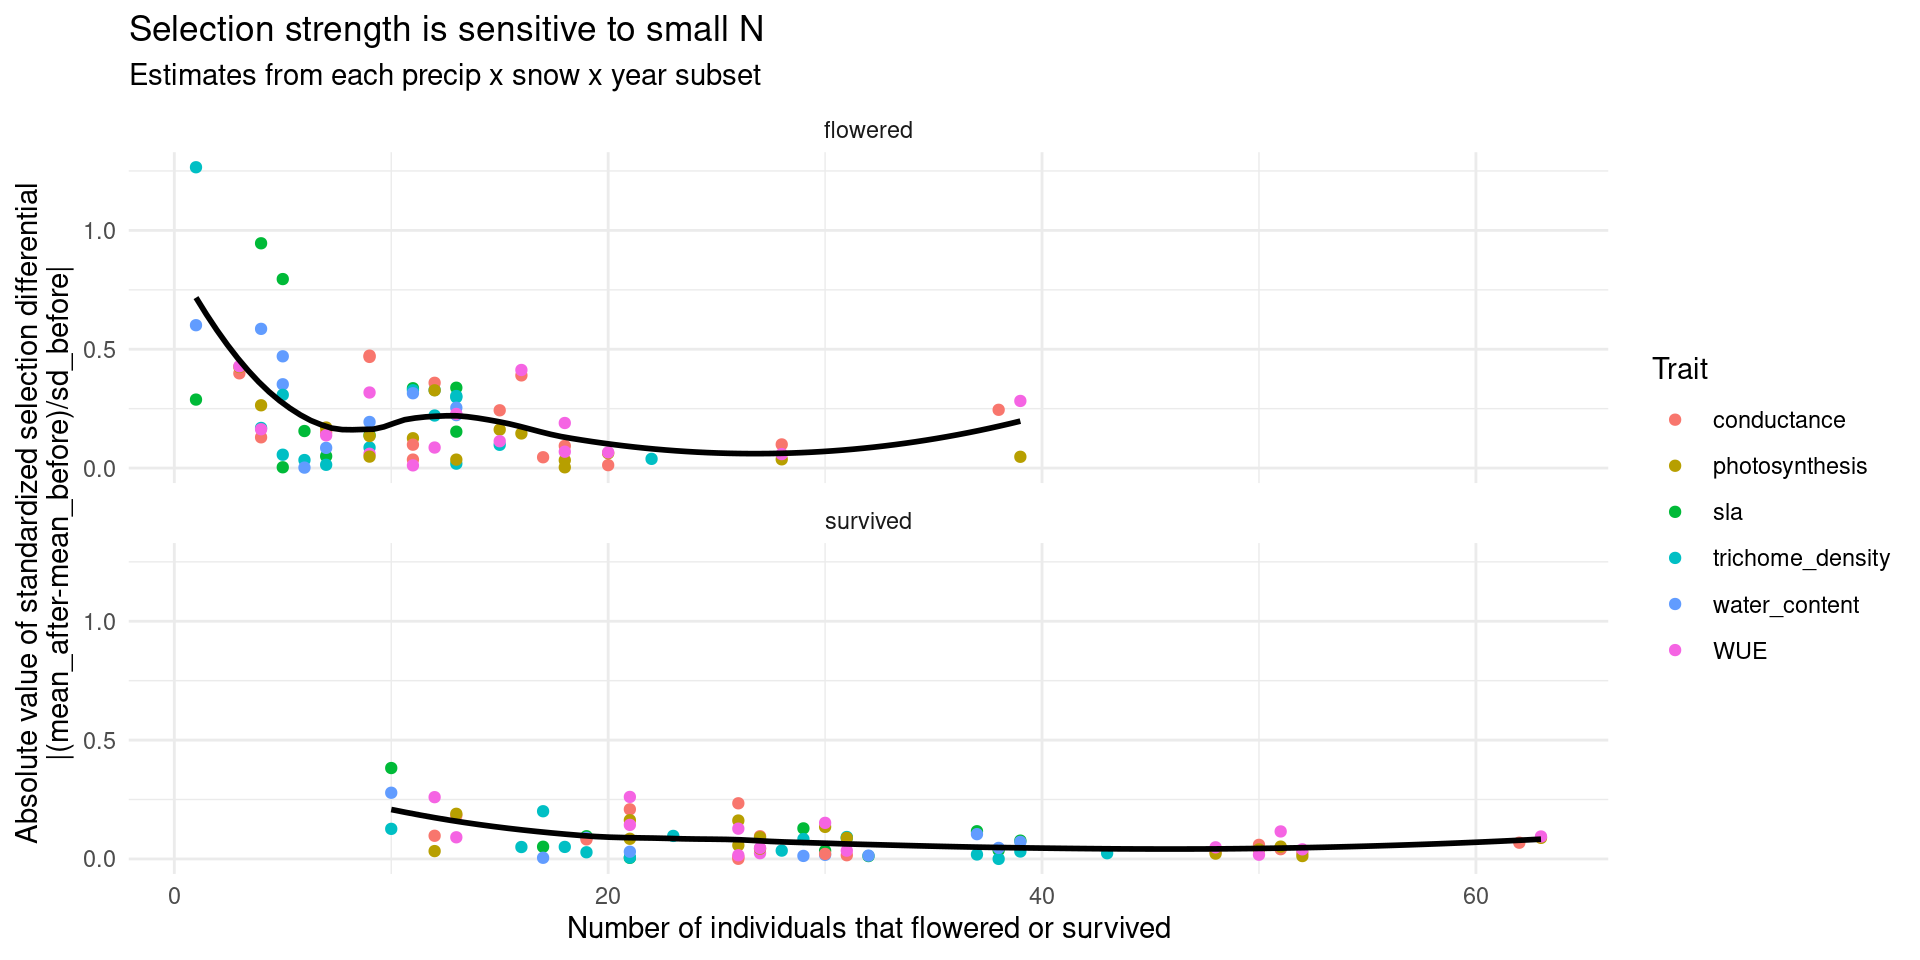
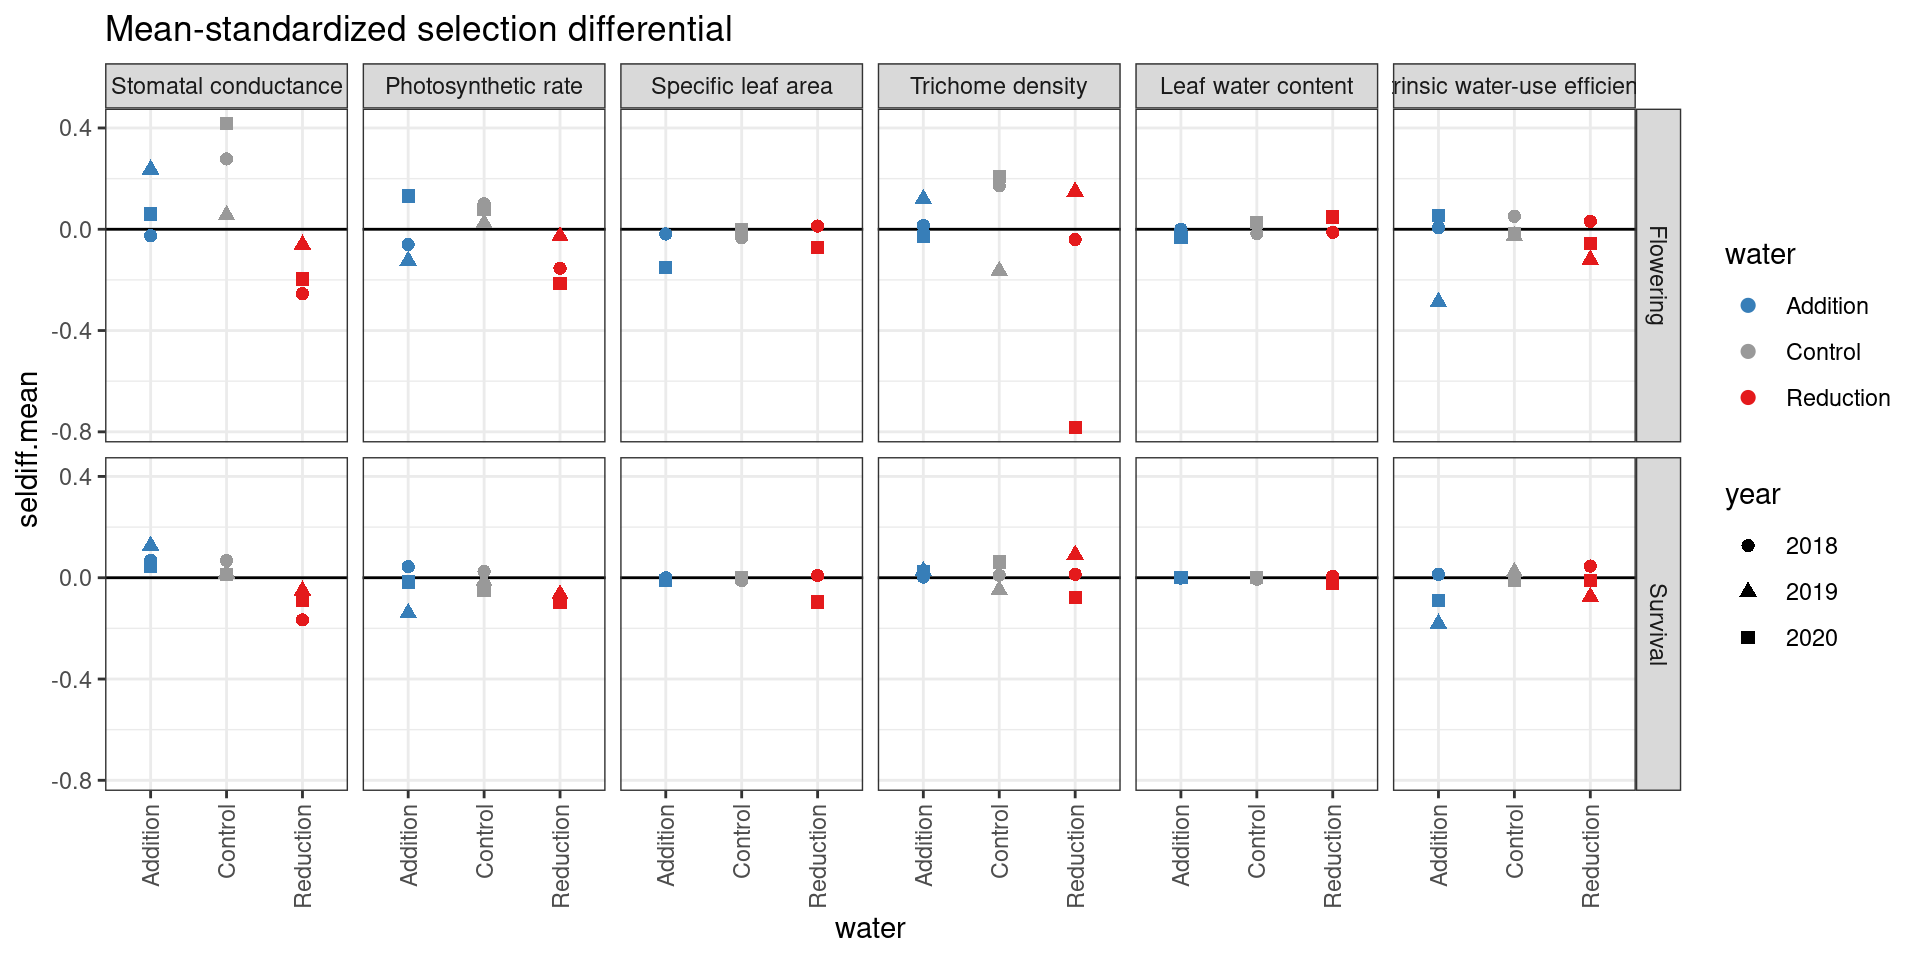
Add mean-standardized seleection differential

diff --git a/maxfield_JP_analyses.html b/maxfield_JP_analyses.html
@@ -11,7 +11,7 @@
 
 <meta name="author" content="John Powers" />
 
-<meta name="date" content="2021-11-11" />
+<meta name="date" content="2021-11-12" />
 
 <title>Maxfield Meadow Ipomopsis Experiment</title>
 
@@ -255,7 +255,7 @@ div.tocify {
 
 <h1 class="title toc-ignore">Maxfield Meadow Ipomopsis Experiment</h1>
 <h4 class="author"><a href="http://sites.uci.edu/powers/">John Powers</a></h4>
-<h4 class="date">2021-11-11</h4>
+<h4 class="date">2021-11-12</h4>
 
 </div>
 
@@ -5667,32 +5667,41 @@ mod.selection &lt;- selection.combos  %&gt;%
   
   left_join(seldata %&gt;% summarize(n_before=n(), sd_before = sd(value), mean_before = mean(value)),
             seldata %&gt;% filter(outcome == 1) %&gt;% summarize(n_after=n(), mean_after = mean(value))) %&gt;% 
-    mutate(seldiff = (mean_after-mean_before)/sd_before) %&gt;% ungroup()
+    mutate(seldiff = (mean_after-mean_before)/sd_before,
+           seldiff.mean = (mean_after-mean_before)/mean_before) %&gt;% ungroup()
 }
 
 #rather than computing for water * snow groups, calculate for either water or snow groups
 seldiffs &lt;- pmap_dfr(expand_grid(set=c(&quot;lt&quot;,&quot;pt&quot;), treatment=c(&quot;water&quot;,&quot;snow&quot;)), std_selection_differential, .id=&quot;set&quot;)
 #with(seldiffs, table(year, trait)) #we cut out 2019r2 dry weights
 
-plot_seldiffs &lt;- function(treatment) {
+plot_seldiffs &lt;- function(treatment, yvar) {
    p &lt;- ggplot(seldiffs %&gt;% mutate(snow=fct_relevel(snow,&quot;Normal&quot;)) %&gt;% drop_na(!!!treatment),
-          aes_string(y=&quot;seldiff&quot;, x=treatment, shape=&quot;year&quot;, color=treatment)) +
+          aes_string(y=yvar, x=treatment, shape=&quot;year&quot;, color=treatment)) +
      facet_grid(response ~ trait, labeller=as_labeller(c(traitnames, survived=&quot;Survival&quot;, flowered=&quot;Flowering&quot;))) + 
      geom_hline(yintercept=0) + geom_point(size=2) + 
      scale_color_manual(values=list(water=water_pal,snow=snow_pal)[[treatment]]) + 
      scale_x_discrete(guide=guide_axis(angle = 90)) + 
-     labs(y=&quot;Standardized selection differential&quot;, shape=&quot;Year&quot;) +
+     labs(title=list(seldiff=&quot;SD-standardized selection differential&quot;, seldiff.mean=&quot;Mean-standardized selection differential&quot;)[[yvar]])+
      theme_bw()
    print(p)
 }
-walk(c(&quot;water&quot;,&quot;snow&quot;), plot_seldiffs)</code></pre>
+walk(c(&quot;water&quot;,&quot;snow&quot;), plot_seldiffs, yvar=&quot;seldiff&quot;)</code></pre>
 <p><img src="images/selec_diff-1.png" width="960" /><img src="images/selec_diff-2.png" width="960" /></p>
+<pre class="r"><code>walk(c(&quot;water&quot;,&quot;snow&quot;), plot_seldiffs, yvar=&quot;seldiff.mean&quot;)</code></pre>
+<p><img src="images/selec_diff-3.png" width="960" /><img src="images/selec_diff-4.png" width="960" /></p>
 <pre class="r"><code>ggplot(seldiffs, aes(x=n_after, y=abs(seldiff), color=trait)) + facet_wrap(vars(response), ncol=1) +
   geom_point() + theme_minimal() + geom_smooth(aes(group=1), se=F, color=&quot;black&quot;) +
-  labs(y=&quot;Absolute value of standardized selection differential\n|(mean_after-mean_before)/sd_before|&quot;,
+  labs(y=&quot;Absolute value of SD-standardized selection differential\n|(mean_after-mean_before)/mean_before|&quot;,
        x=&quot;Number of individuals that flowered or survived&quot;, color=&quot;Trait&quot;,
        title = &quot;Selection strength is sensitive to small N&quot;, subtitle = &quot;Estimates from each precip x snow x year subset&quot;)</code></pre>
-<p><img src="images/selec_diff-3.png" width="960" /></p>
+<p><img src="images/selec_diff-5.png" width="960" /></p>
+<pre class="r"><code>ggplot(seldiffs, aes(x=n_after, y=abs(seldiff.mean), color=trait)) + facet_wrap(vars(response), ncol=1) +
+  geom_point() + theme_minimal() + geom_smooth(aes(group=1), se=F, color=&quot;black&quot;) +
+  labs(y=&quot;Absolute value of mean-standardized selection differential\n|(mean_after-mean_before)/mean_before|&quot;,
+       x=&quot;Number of individuals that flowered or survived&quot;, color=&quot;Trait&quot;,
+       title = &quot;Selection strength is sensitive to small N&quot;, subtitle = &quot;Estimates from each precip x snow x year subset&quot;)</code></pre>
+<p><img src="images/selec_diff-6.png" width="960" /></p>
 <pre class="r"><code>emt.selection &lt;- mod.selection %&gt;% 
   mutate(yrtrend = map2(full_model, treatment, 
                         ~tidy(emtrends(.x, specs=c(&quot;year&quot;,as.character(.y)), var=&quot;trait&quot;)))) %&gt;%
@@ -5715,8 +5724,21 @@ plot_emt &lt;- function(trt) {
 }
 walk(c(&quot;water&quot;,&quot;snow&quot;), plot_emt)</code></pre>
 <p><img src="images/emt_selection-1.png" width="672" /><img src="images/emt_selection-2.png" width="672" /></p>
-<pre class="r"><code>left_join(emt.selection, seldiffs) %&gt;% filter(p.value &lt; 0.05) %&gt;% select(response, treatment, trait, year, water, snow, trait.trend.sd, n_before, n_after, seldiff) %&gt;% kable()</code></pre>
+<pre class="r"><code>left_join(emt.selection, seldiffs) %&gt;% filter(p.value &lt; 0.05) %&gt;% select(response, treatment, trait, year, water, snow, trait.trend.sd, p.value, n_before, n_after, seldiff) %&gt;% kable()</code></pre>
 <table>
+<colgroup>
+<col width="8%" />
+<col width="9%" />
+<col width="14%" />
+<col width="4%" />
+<col width="9%" />
+<col width="6%" />
+<col width="14%" />
+<col width="7%" />
+<col width="8%" />
+<col width="7%" />
+<col width="7%" />
+</colgroup>
 <thead>
 <tr class="header">
 <th align="left">response</th>
@@ -5726,6 +5748,7 @@ walk(c(&quot;water&quot;,&quot;snow&quot;), plot_emt)</code></pre>
 <th align="left">water</th>
 <th align="left">snow</th>
 <th align="right">trait.trend.sd</th>
+<th align="right">p.value</th>
 <th align="right">n_before</th>
 <th align="right">n_after</th>
 <th align="right">seldiff</th>
@@ -5740,6 +5763,7 @@ walk(c(&quot;water&quot;,&quot;snow&quot;), plot_emt)</code></pre>
 <td align="left">NA</td>
 <td align="left">Normal</td>
 <td align="right">0.4873</td>
+<td align="right">0.0493</td>
 <td align="right">74</td>
 <td align="right">38</td>
 <td align="right">0.2452</td>
@@ -5752,6 +5776,7 @@ walk(c(&quot;water&quot;,&quot;snow&quot;), plot_emt)</code></pre>
 <td align="left">NA</td>
 <td align="left">Normal</td>
 <td align="right">-1.0427</td>
+<td align="right">0.0279</td>
 <td align="right">77</td>
 <td align="right">39</td>
 <td align="right">-0.2824</td>
@@ -5764,6 +5789,7 @@ walk(c(&quot;water&quot;,&quot;snow&quot;), plot_emt)</code></pre>
 <td align="left">Reduction</td>
 <td align="left">NA</td>
 <td align="right">-3.3443</td>
+<td align="right">0.0136</td>
 <td align="right">33</td>
 <td align="right">26</td>
 <td align="right">-0.2340</td>
@@ -5776,6 +5802,7 @@ walk(c(&quot;water&quot;,&quot;snow&quot;), plot_emt)</code></pre>
 <td align="left">Reduction</td>
 <td align="left">NA</td>
 <td align="right">1.7324</td>
+<td align="right">0.0436</td>
 <td align="right">33</td>
 <td align="right">26</td>
 <td align="right">0.1273</td>
@@ -5788,6 +5815,7 @@ walk(c(&quot;water&quot;,&quot;snow&quot;), plot_emt)</code></pre>
 <td align="left">NA</td>
 <td align="left">Early</td>
 <td align="right">0.9346</td>
+<td align="right">0.0311</td>
 <td align="right">NA</td>
 <td align="right">NA</td>
 <td align="right">NA</td>
@@ -5800,6 +5828,7 @@ walk(c(&quot;water&quot;,&quot;snow&quot;), plot_emt)</code></pre>
 <td align="left">NA</td>
 <td align="left">Normal</td>
 <td align="right">0.6725</td>
+<td align="right">0.0336</td>
 <td align="right">NA</td>
 <td align="right">NA</td>
 <td align="right">NA</td>
@@ -5812,6 +5841,7 @@ walk(c(&quot;water&quot;,&quot;snow&quot;), plot_emt)</code></pre>
 <td align="left">NA</td>
 <td align="left">Normal</td>
 <td align="right">0.6371</td>
+<td align="right">0.0066</td>
 <td align="right">NA</td>
 <td align="right">NA</td>
 <td align="right">NA</td>
